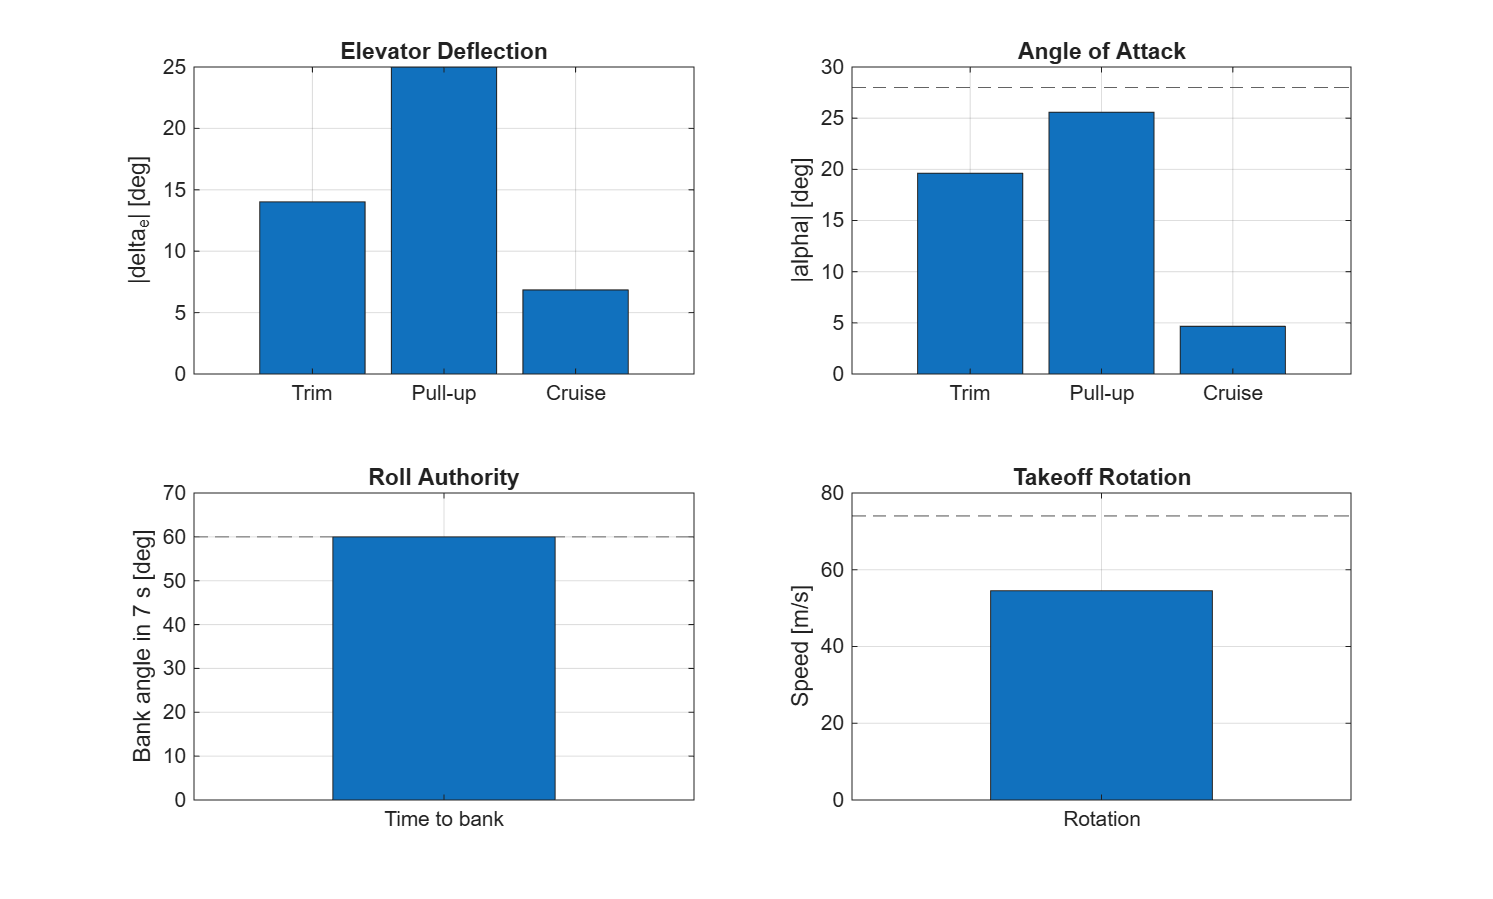
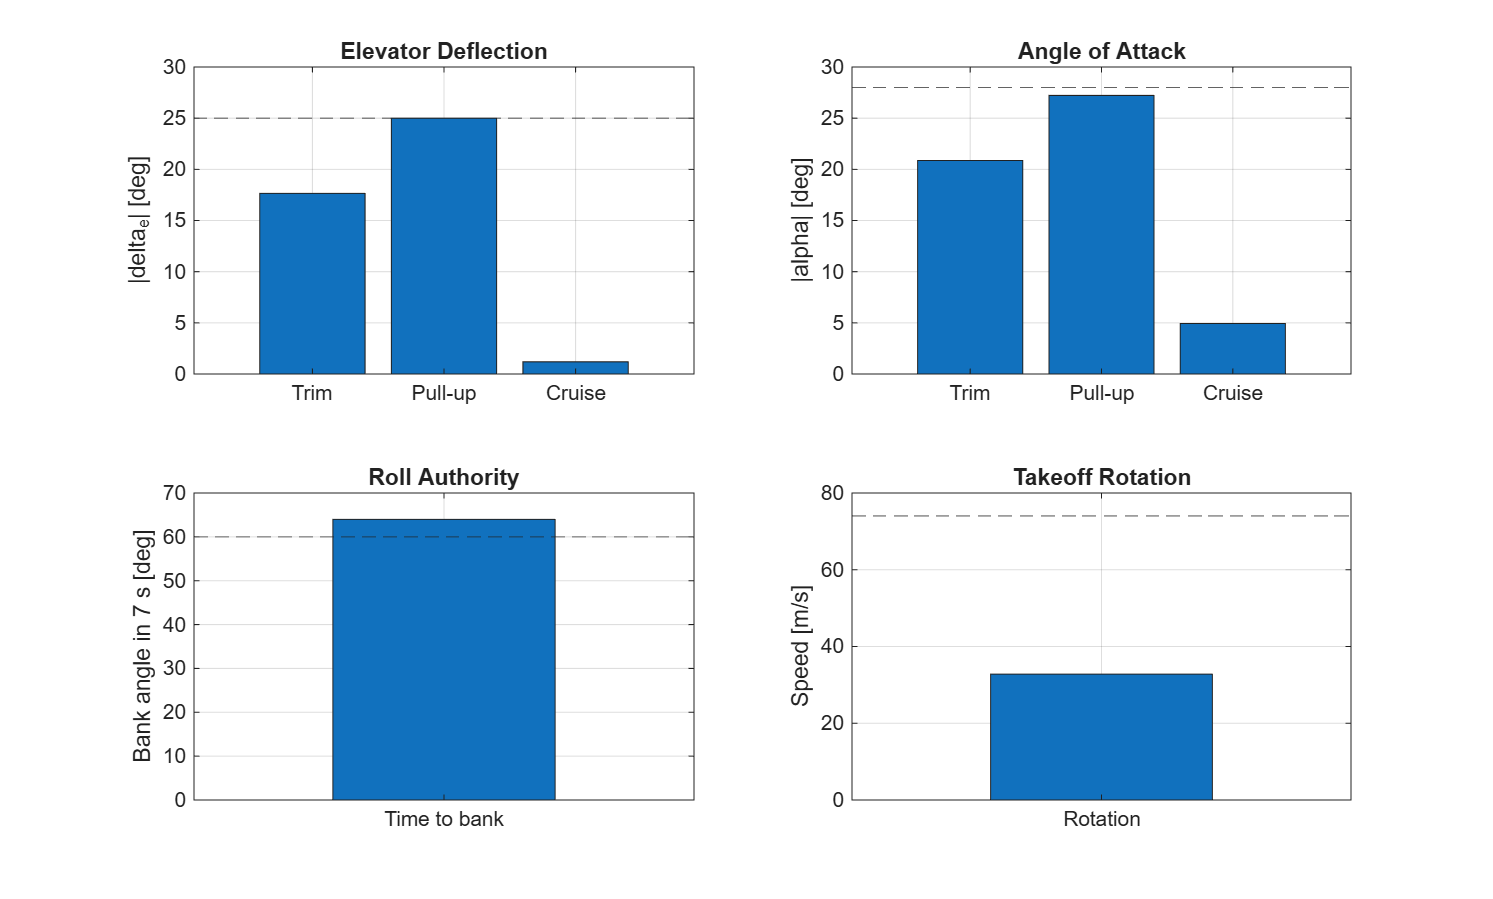
Set stable CG trim trend

diff --git a/+DynamicsPkg/BWB_Dynamics_Demo.m b/+DynamicsPkg/BWB_Dynamics_Demo.m
@@ -44,7 +44,9 @@ Aircraft.Specs.Dynamics.Longitudinal.CLdelta = 0.30;
 Aircraft.Specs.Dynamics.Longitudinal.Cm0 = 0.015;
 
 % Pitching-moment slope about the aero reference point, dCm/dalpha [1/rad].
-Aircraft.Specs.Dynamics.Longitudinal.Cmalpha = -0.35;
+% Chosen so the assumed CG envelope stays forward of the zero-trim-deflection
+% point; forward CG should remain the limiting pitch-control case.
+Aircraft.Specs.Dynamics.Longitudinal.Cmalpha = -0.80;
 
 % Elevator moment effectiveness, dCm/ddelta_e [1/rad].
 Aircraft.Specs.Dynamics.Longitudinal.Cmdelta = -0.85;
